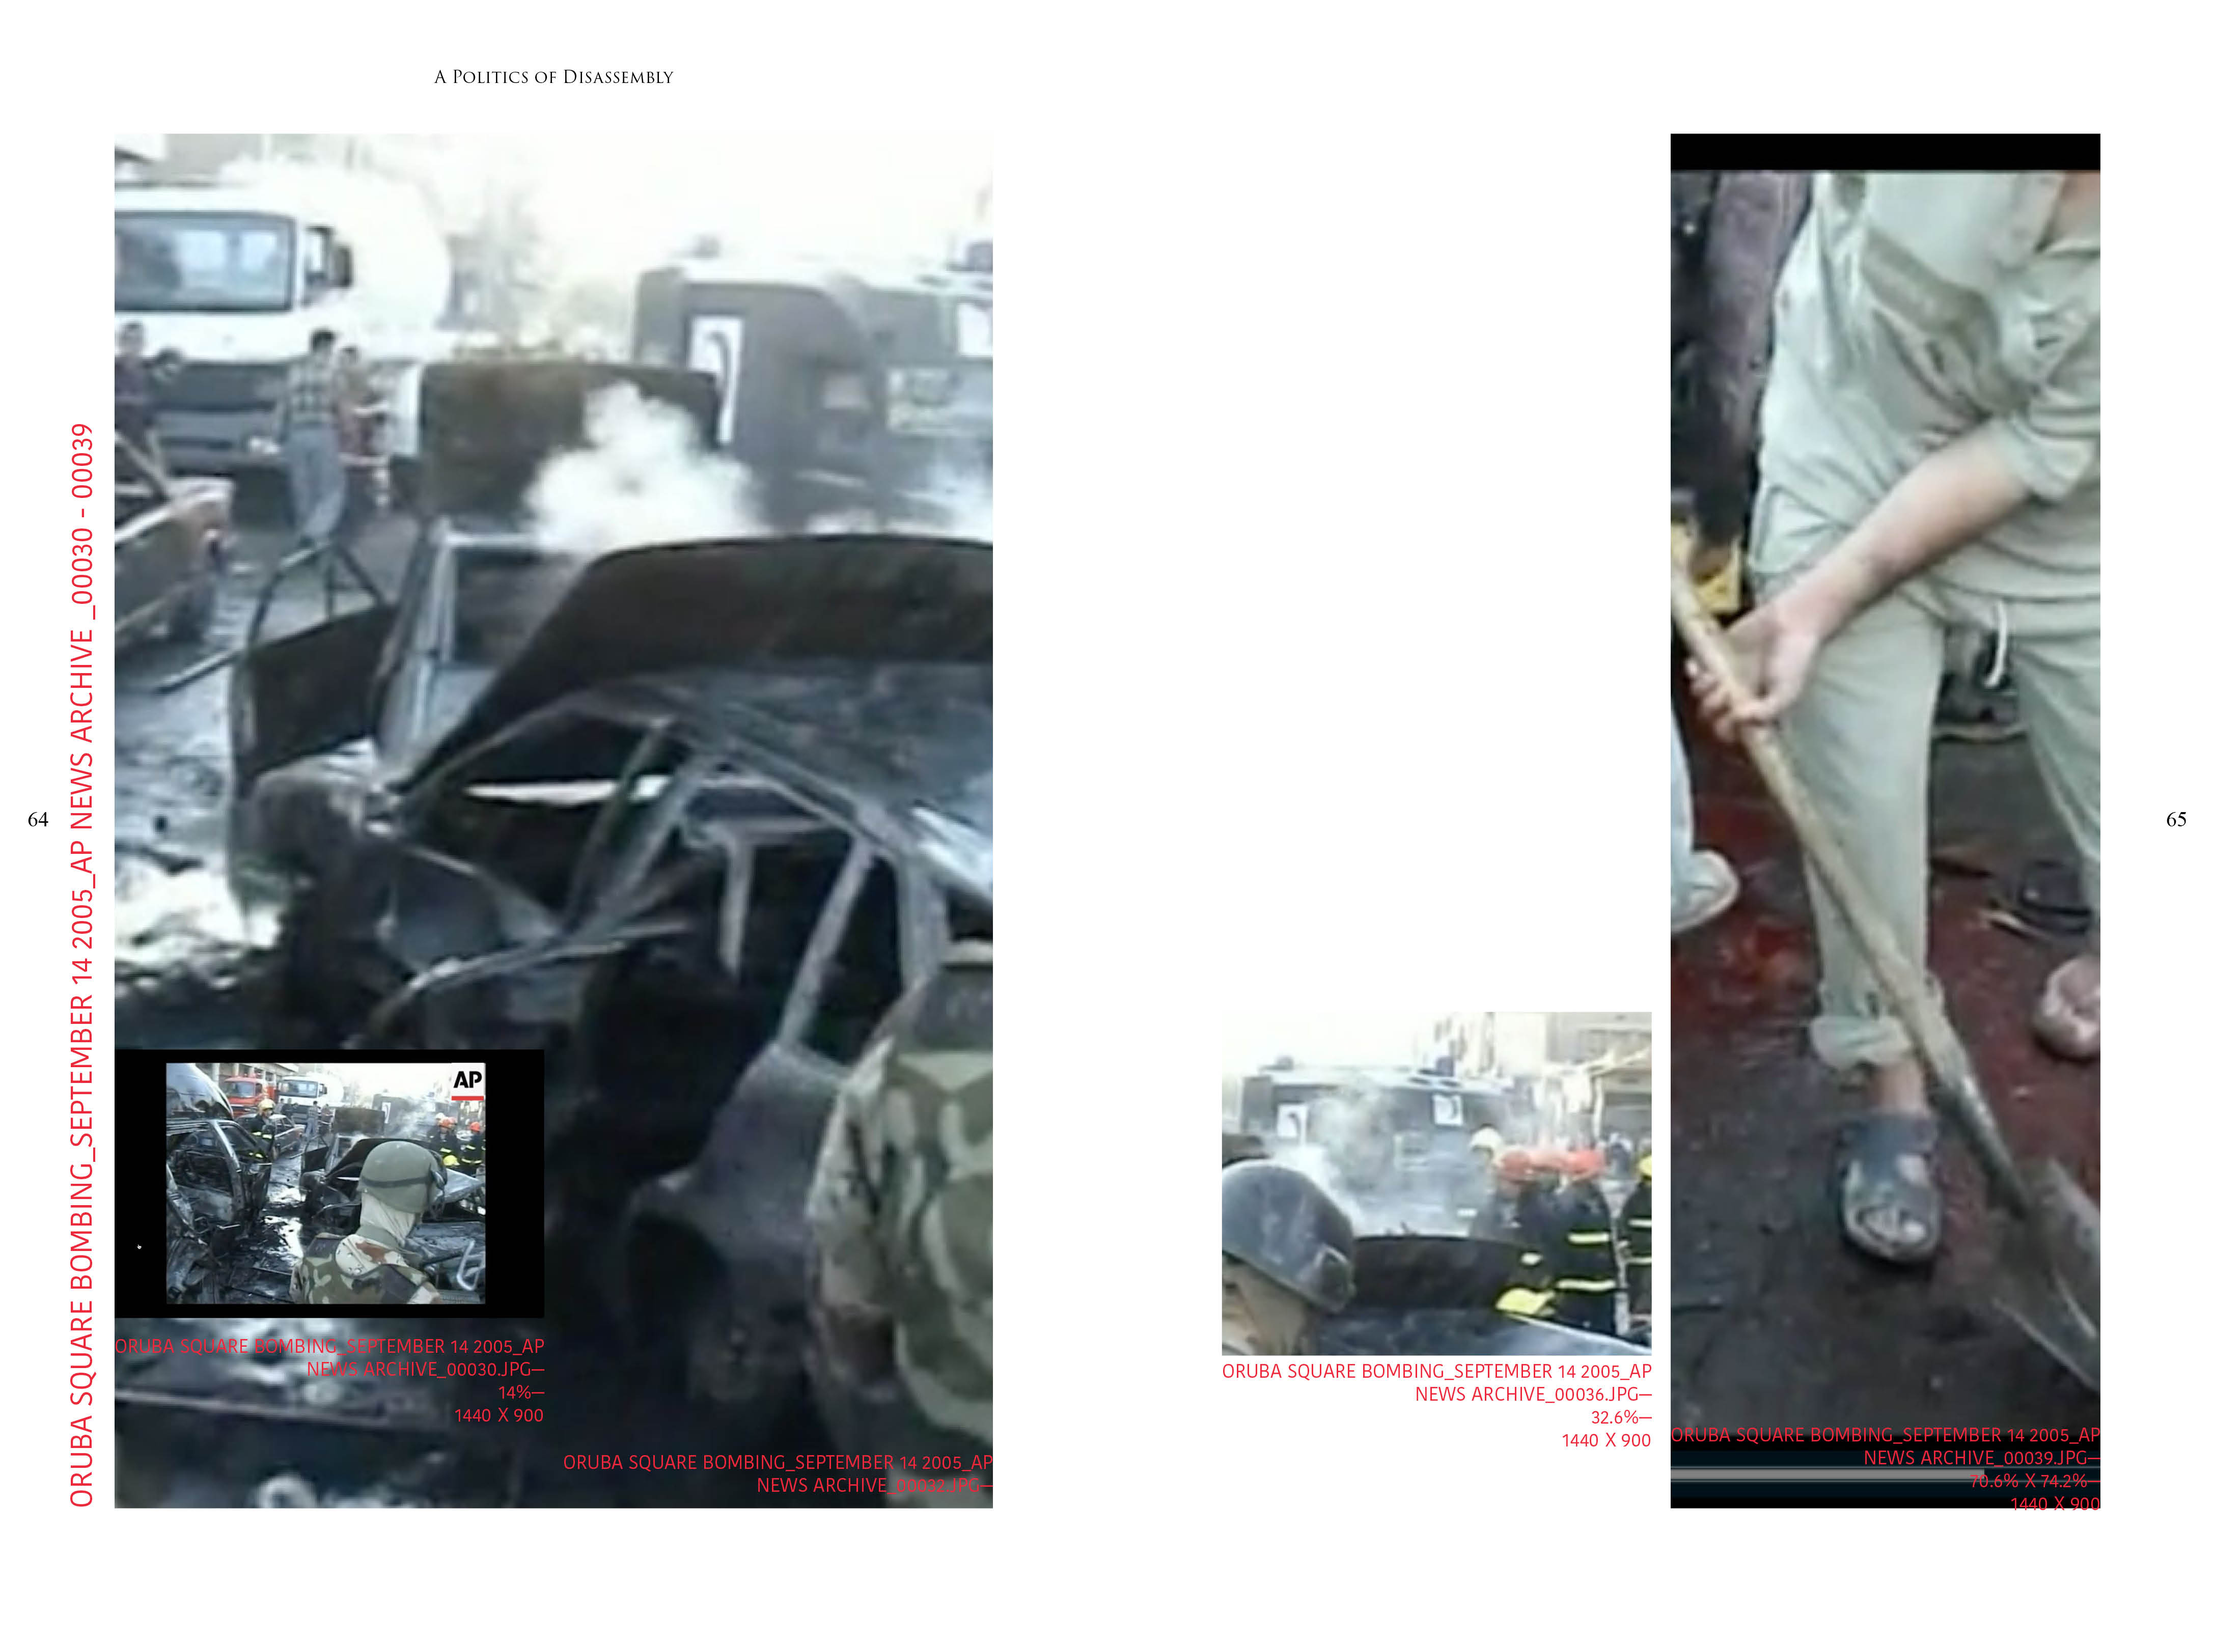
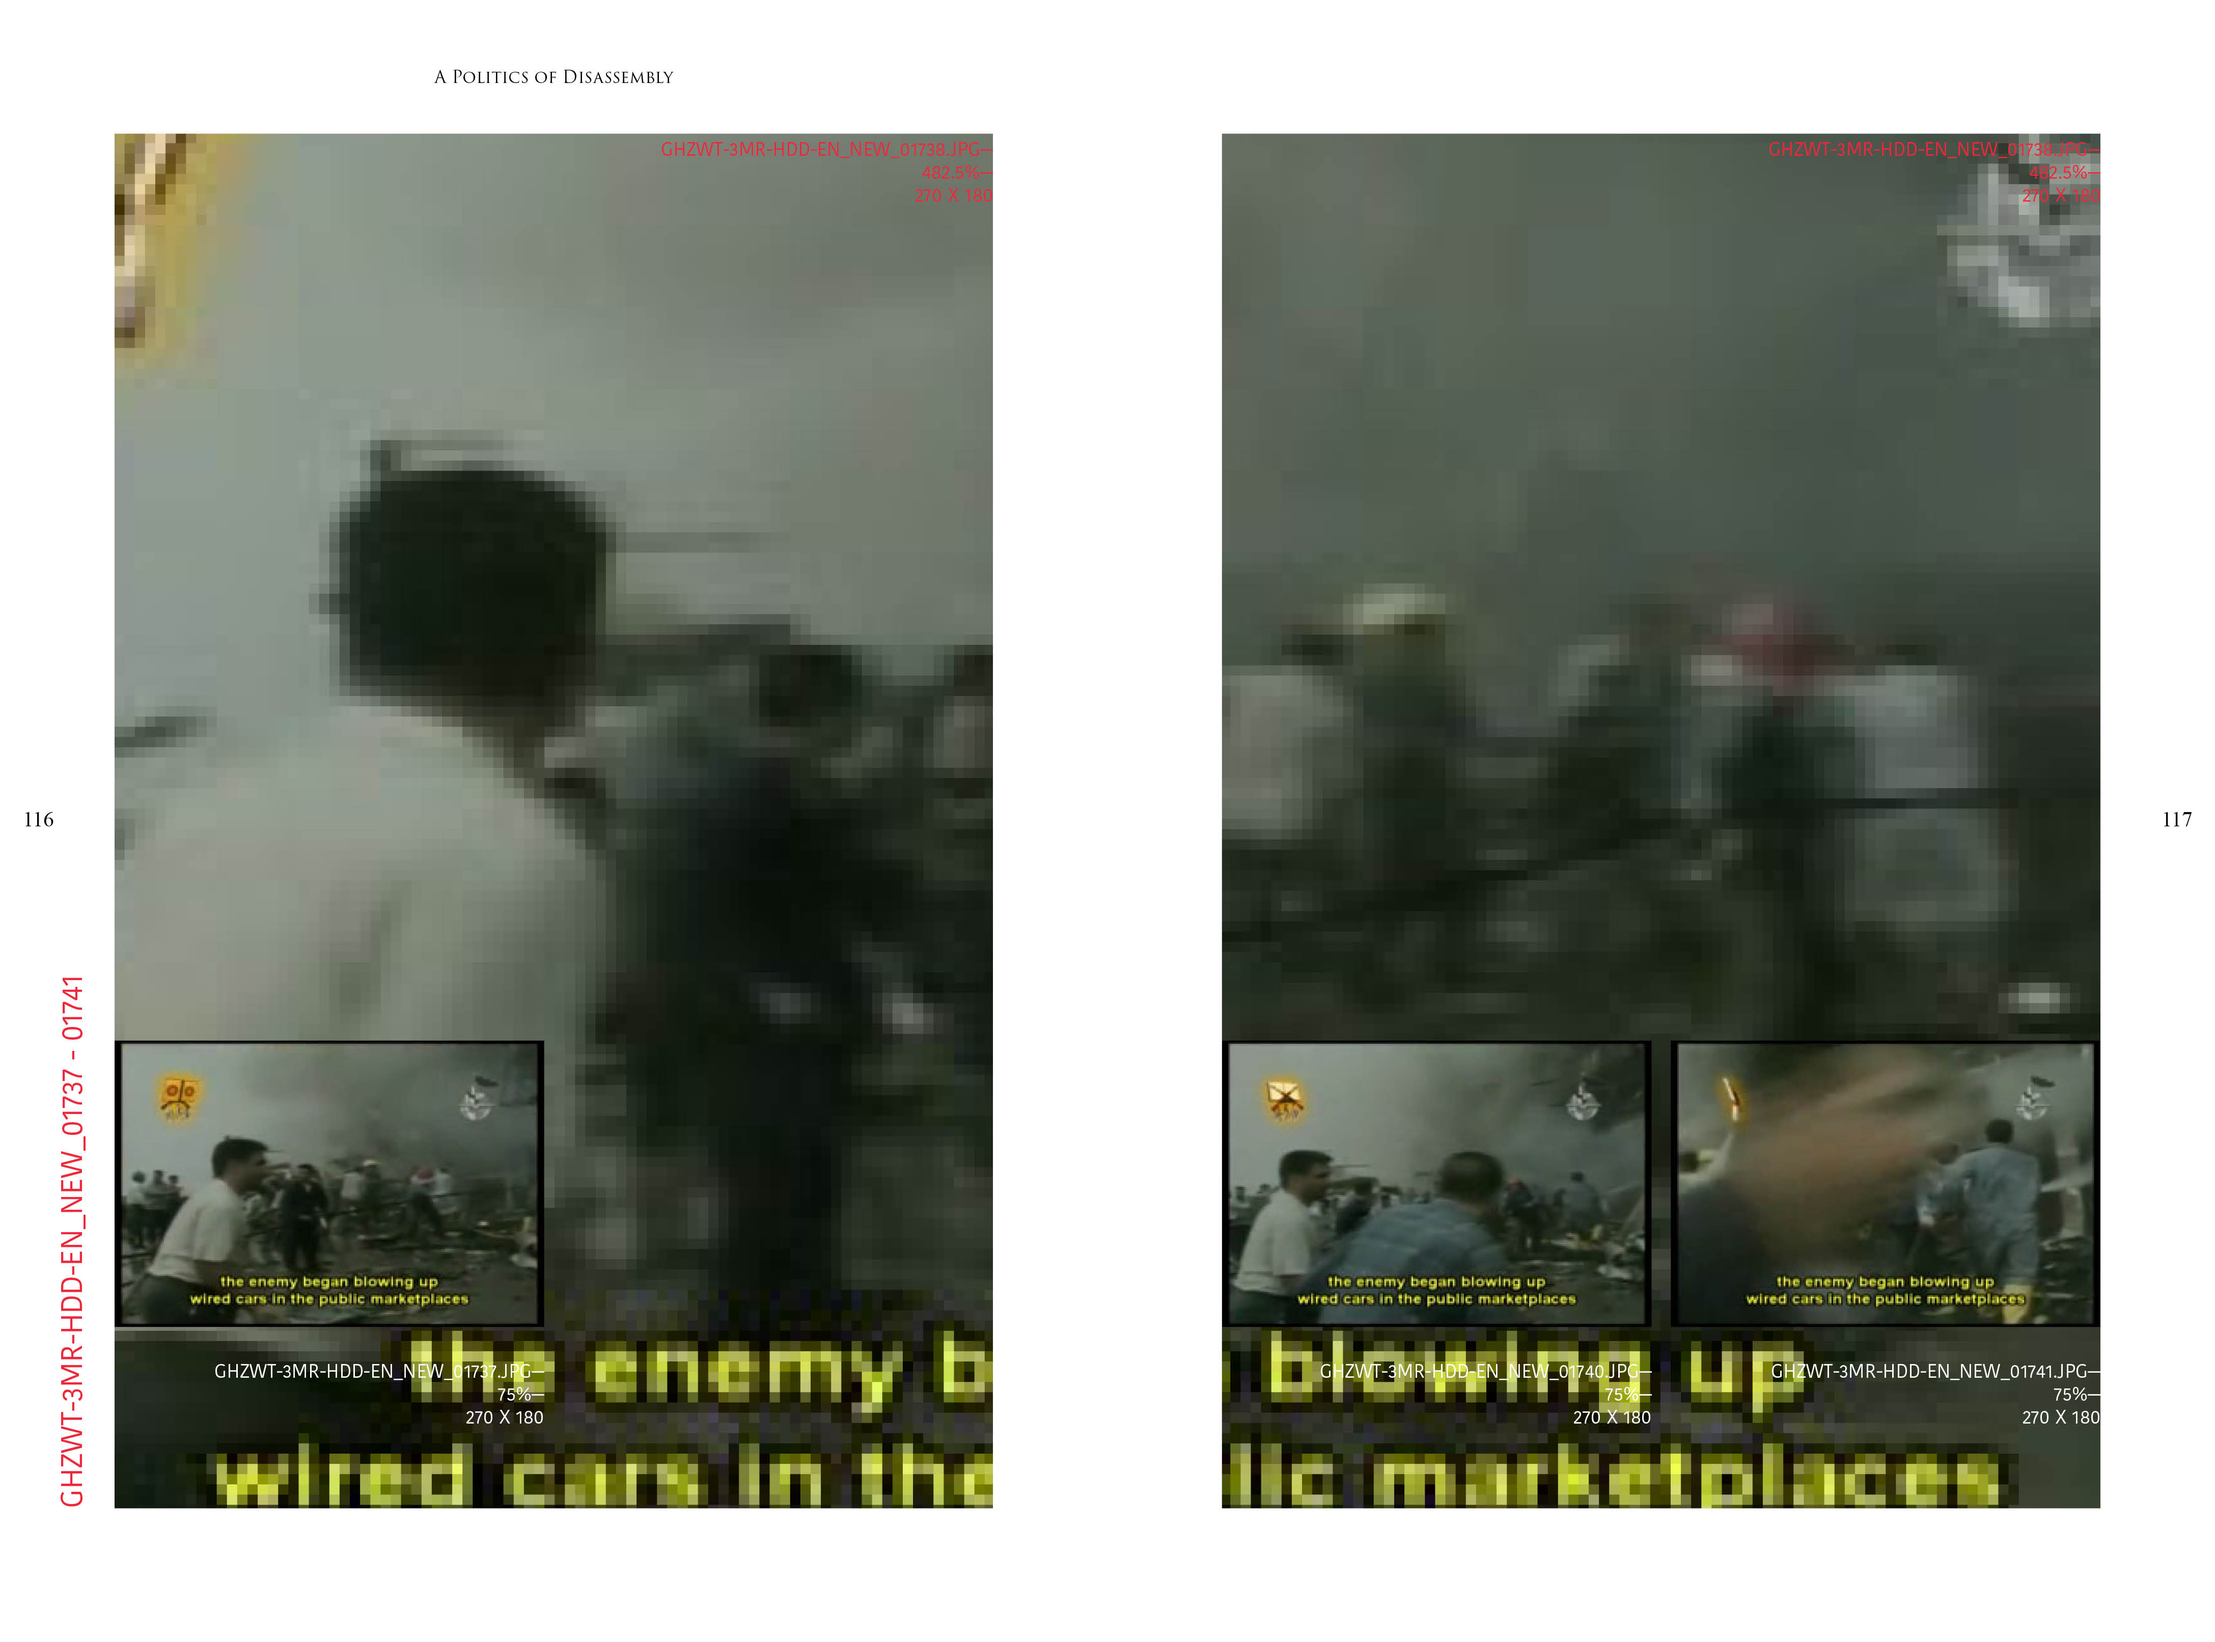
images re-order and bio update

diff --git a/src/pages/About/About.js b/src/pages/About/About.js
@@ -13,7 +13,8 @@ const About = () => (
                         Jarrett Ley is an architectural designer and researcher whose work investigates architecture's entanglements with violence, war, and power. Situated within the expanded discourse of architecture, these inquires probe built/unbuilt environments, media, and technology as agents and artifacts of politics. This work exists across multiple modes of inquiry and dissemination- including drawing, animation, text, book, audio, and exhibition.
                     </div>
                     <p>CONTACT<br/>jarrett.ley@gmail.com</p>
-                    <p>EXPERIENCE<br/>Instructor, Columbia University GSAPP</p>
+                    <p>TEACHING<br/>Associate of Architecture, Planning, and Preservation at Columbia University GSAPP</p>
+                    <p>EDUCATION<br/>Columbia University GSAPP:<br/>M.S. Critical, Curatorial, and Conceptual Practices in Architecture<br/>Master of Architecture</p>
                 </Grid>
                 <Grid item container alignItems="flex-end" xs={12}>
                     <div className="copyright">

diff --git a/src/constants/projects.js b/src/constants/projects.js
@@ -7,15 +7,15 @@ import pod6 from "../assets/images/pod/pod-6.jpg"
 import pod7 from "../assets/images/pod/pod-7.jpg"
 
 import doz1 from "../assets/images/doz/doz-1.jpg"
-import doz2 from "../assets/images/doz/doz-2.png"
-import doz3 from "../assets/images/doz/doz-3.JPG"
-import doz4 from "../assets/images/doz/doz-4.jpg"
-import doz5 from "../assets/images/doz/doz-5.jpg"
+import doz2 from "../assets/images/doz/doz-2.jpg"
+import doz3 from "../assets/images/doz/doz-3.jpg"
+import doz4 from "../assets/images/doz/doz-4.png"
+import doz5 from "../assets/images/doz/doz-5.JPG"
 
 import el1 from "../assets/images/el/el-1.png"
 import el2 from "../assets/images/el/el-2.png"
-import el3 from "../assets/images/el/el-3.jpg"
-import el4 from "../assets/images/el/el-4.png"
+import el3 from "../assets/images/el/el-3.png"
+import el4 from "../assets/images/el/el-4.jpg"
 import el5 from "../assets/images/el/el-5.jpg"
 import el6 from "../assets/images/el/el-6.jpg"
 import el7 from "../assets/images/el/el-7.jpg"

diff --git a/public/index.html b/public/index.html
@@ -6,8 +6,8 @@
     <meta name="viewport" content="width=device-width, initial-scale=1" />
     <meta name="theme-color" content="#000000" />
     <meta
-      name="description"
-      content="Web site created using create-react-app"
+      name="Jarrett Ley"
+      content="Jarrett Ley is an architectural designer and researcher whose work investigates architecture's entanglements with violence, war, and power."
     />
     <link rel="apple-touch-icon" href="%PUBLIC_URL%/logo192.png" />
     <!--
@@ -24,7 +24,7 @@
       work correctly both with client-side routing and a non-root public URL.
       Learn how to configure a non-root public URL by running `npm run build`.
     -->
-    <title>React App</title>
+    <title>Jarrett Ley</title>
   </head>
   <body>
     <noscript>You need to enable JavaScript to run this app.</noscript>
